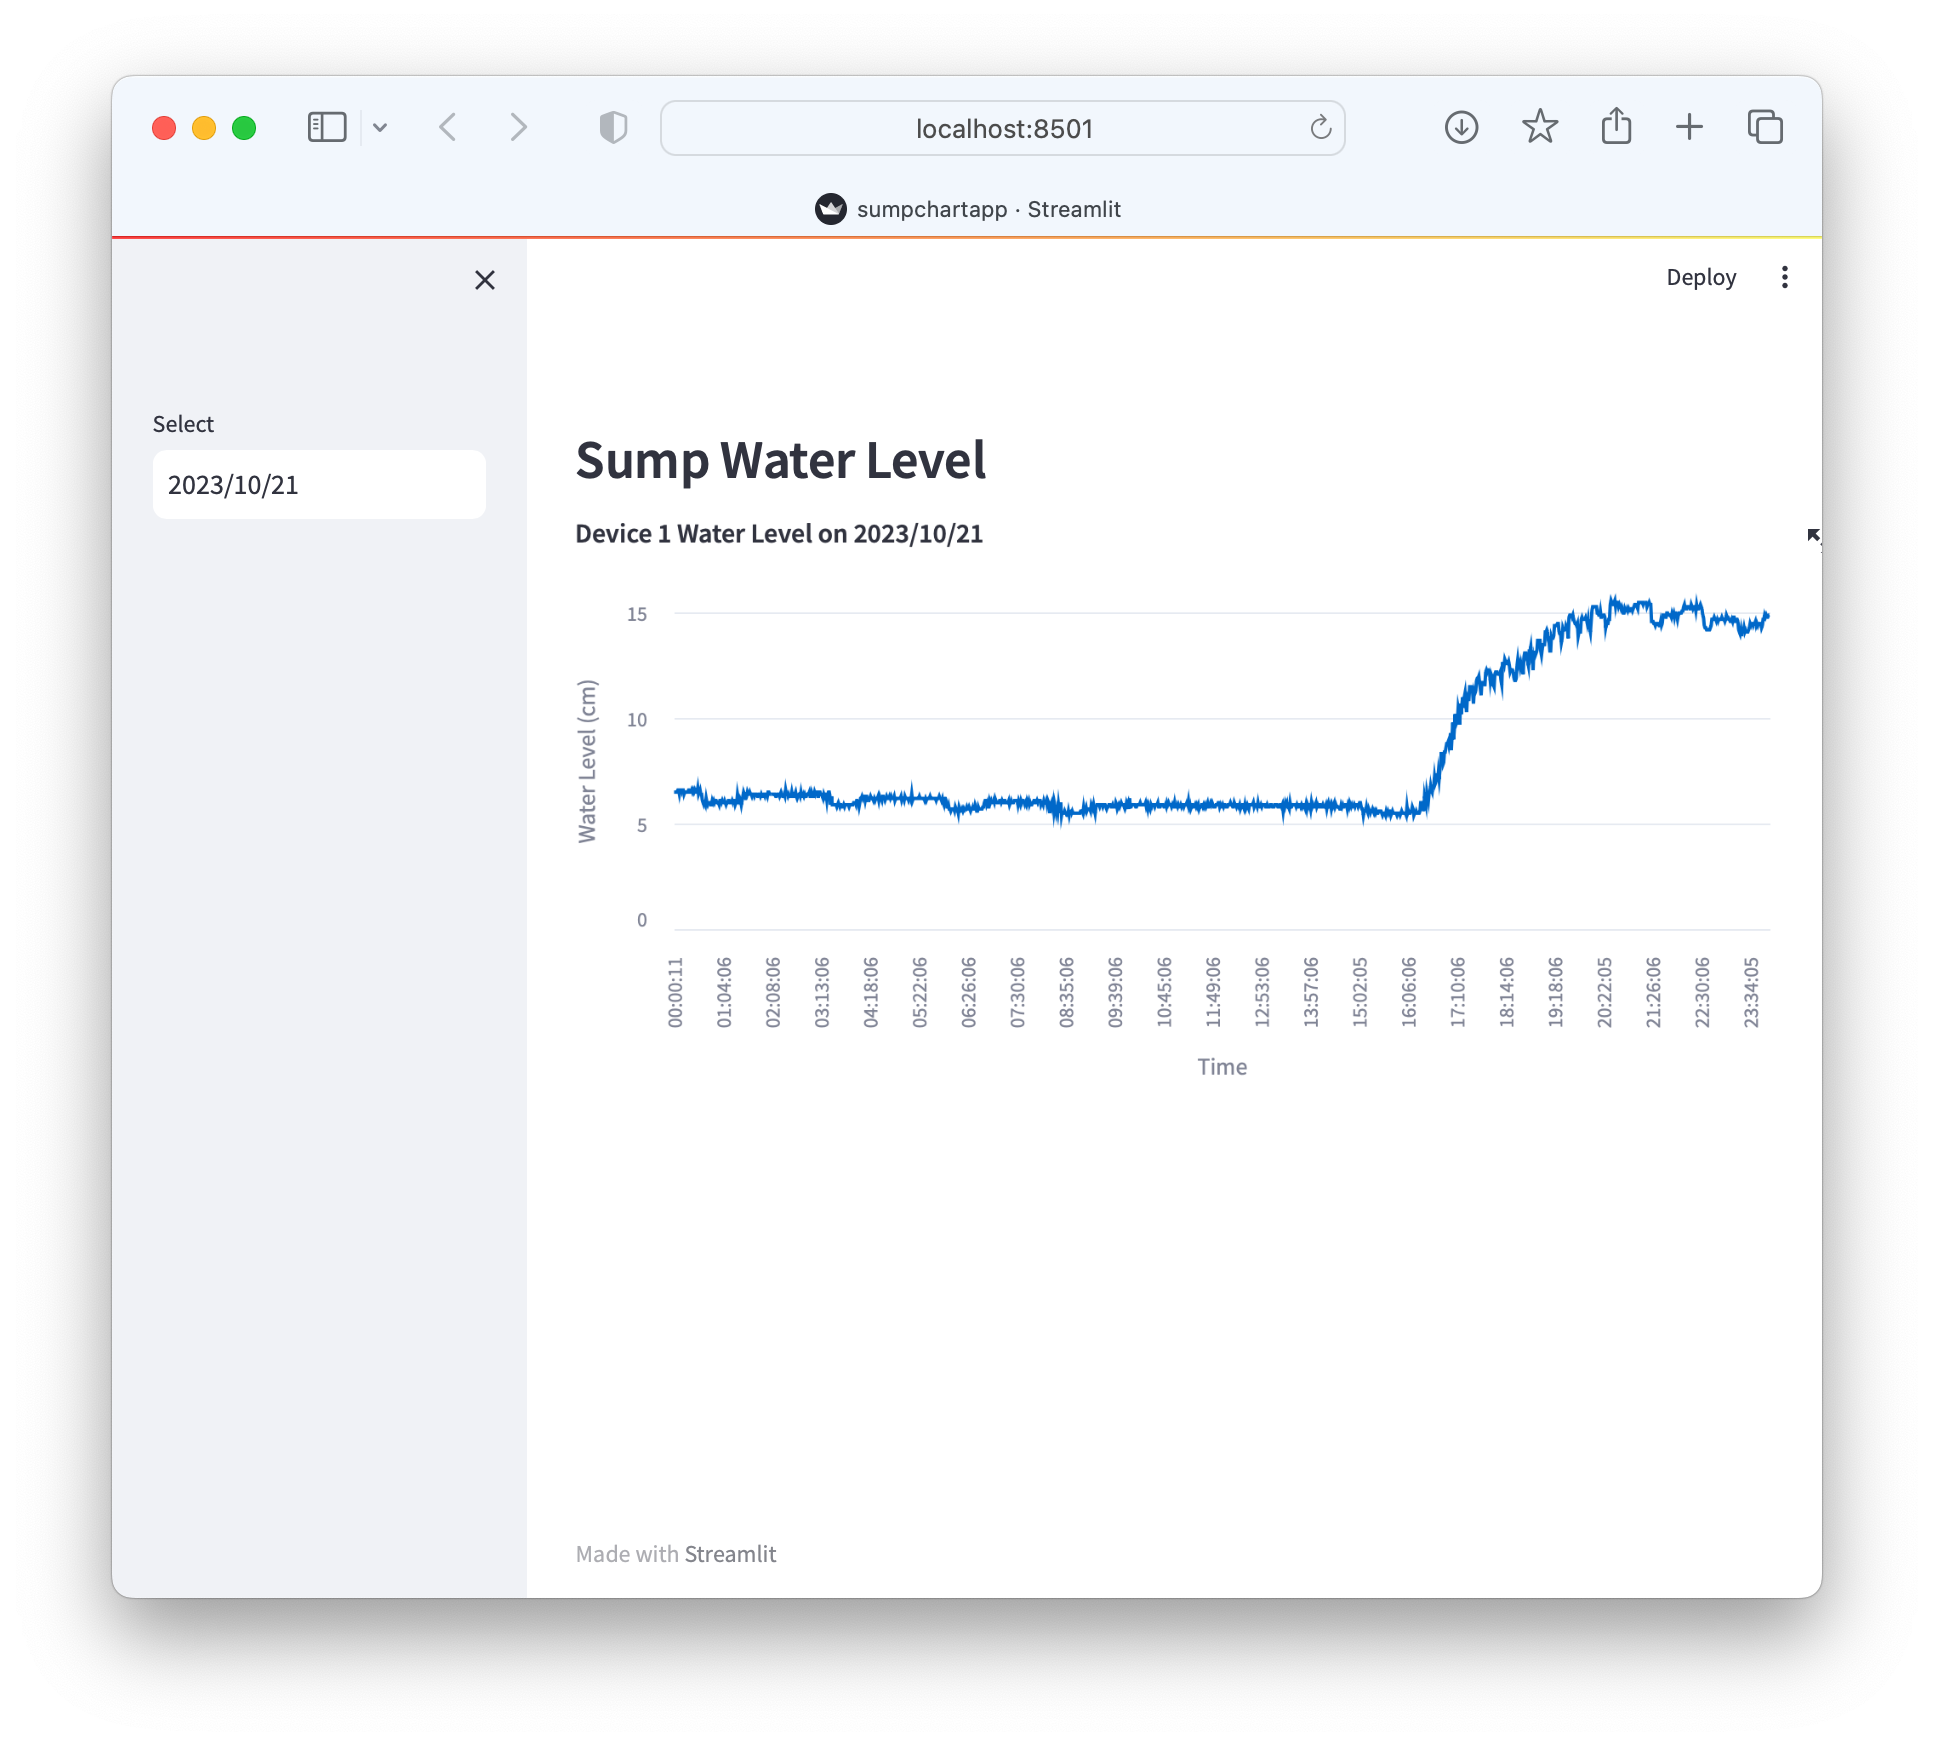
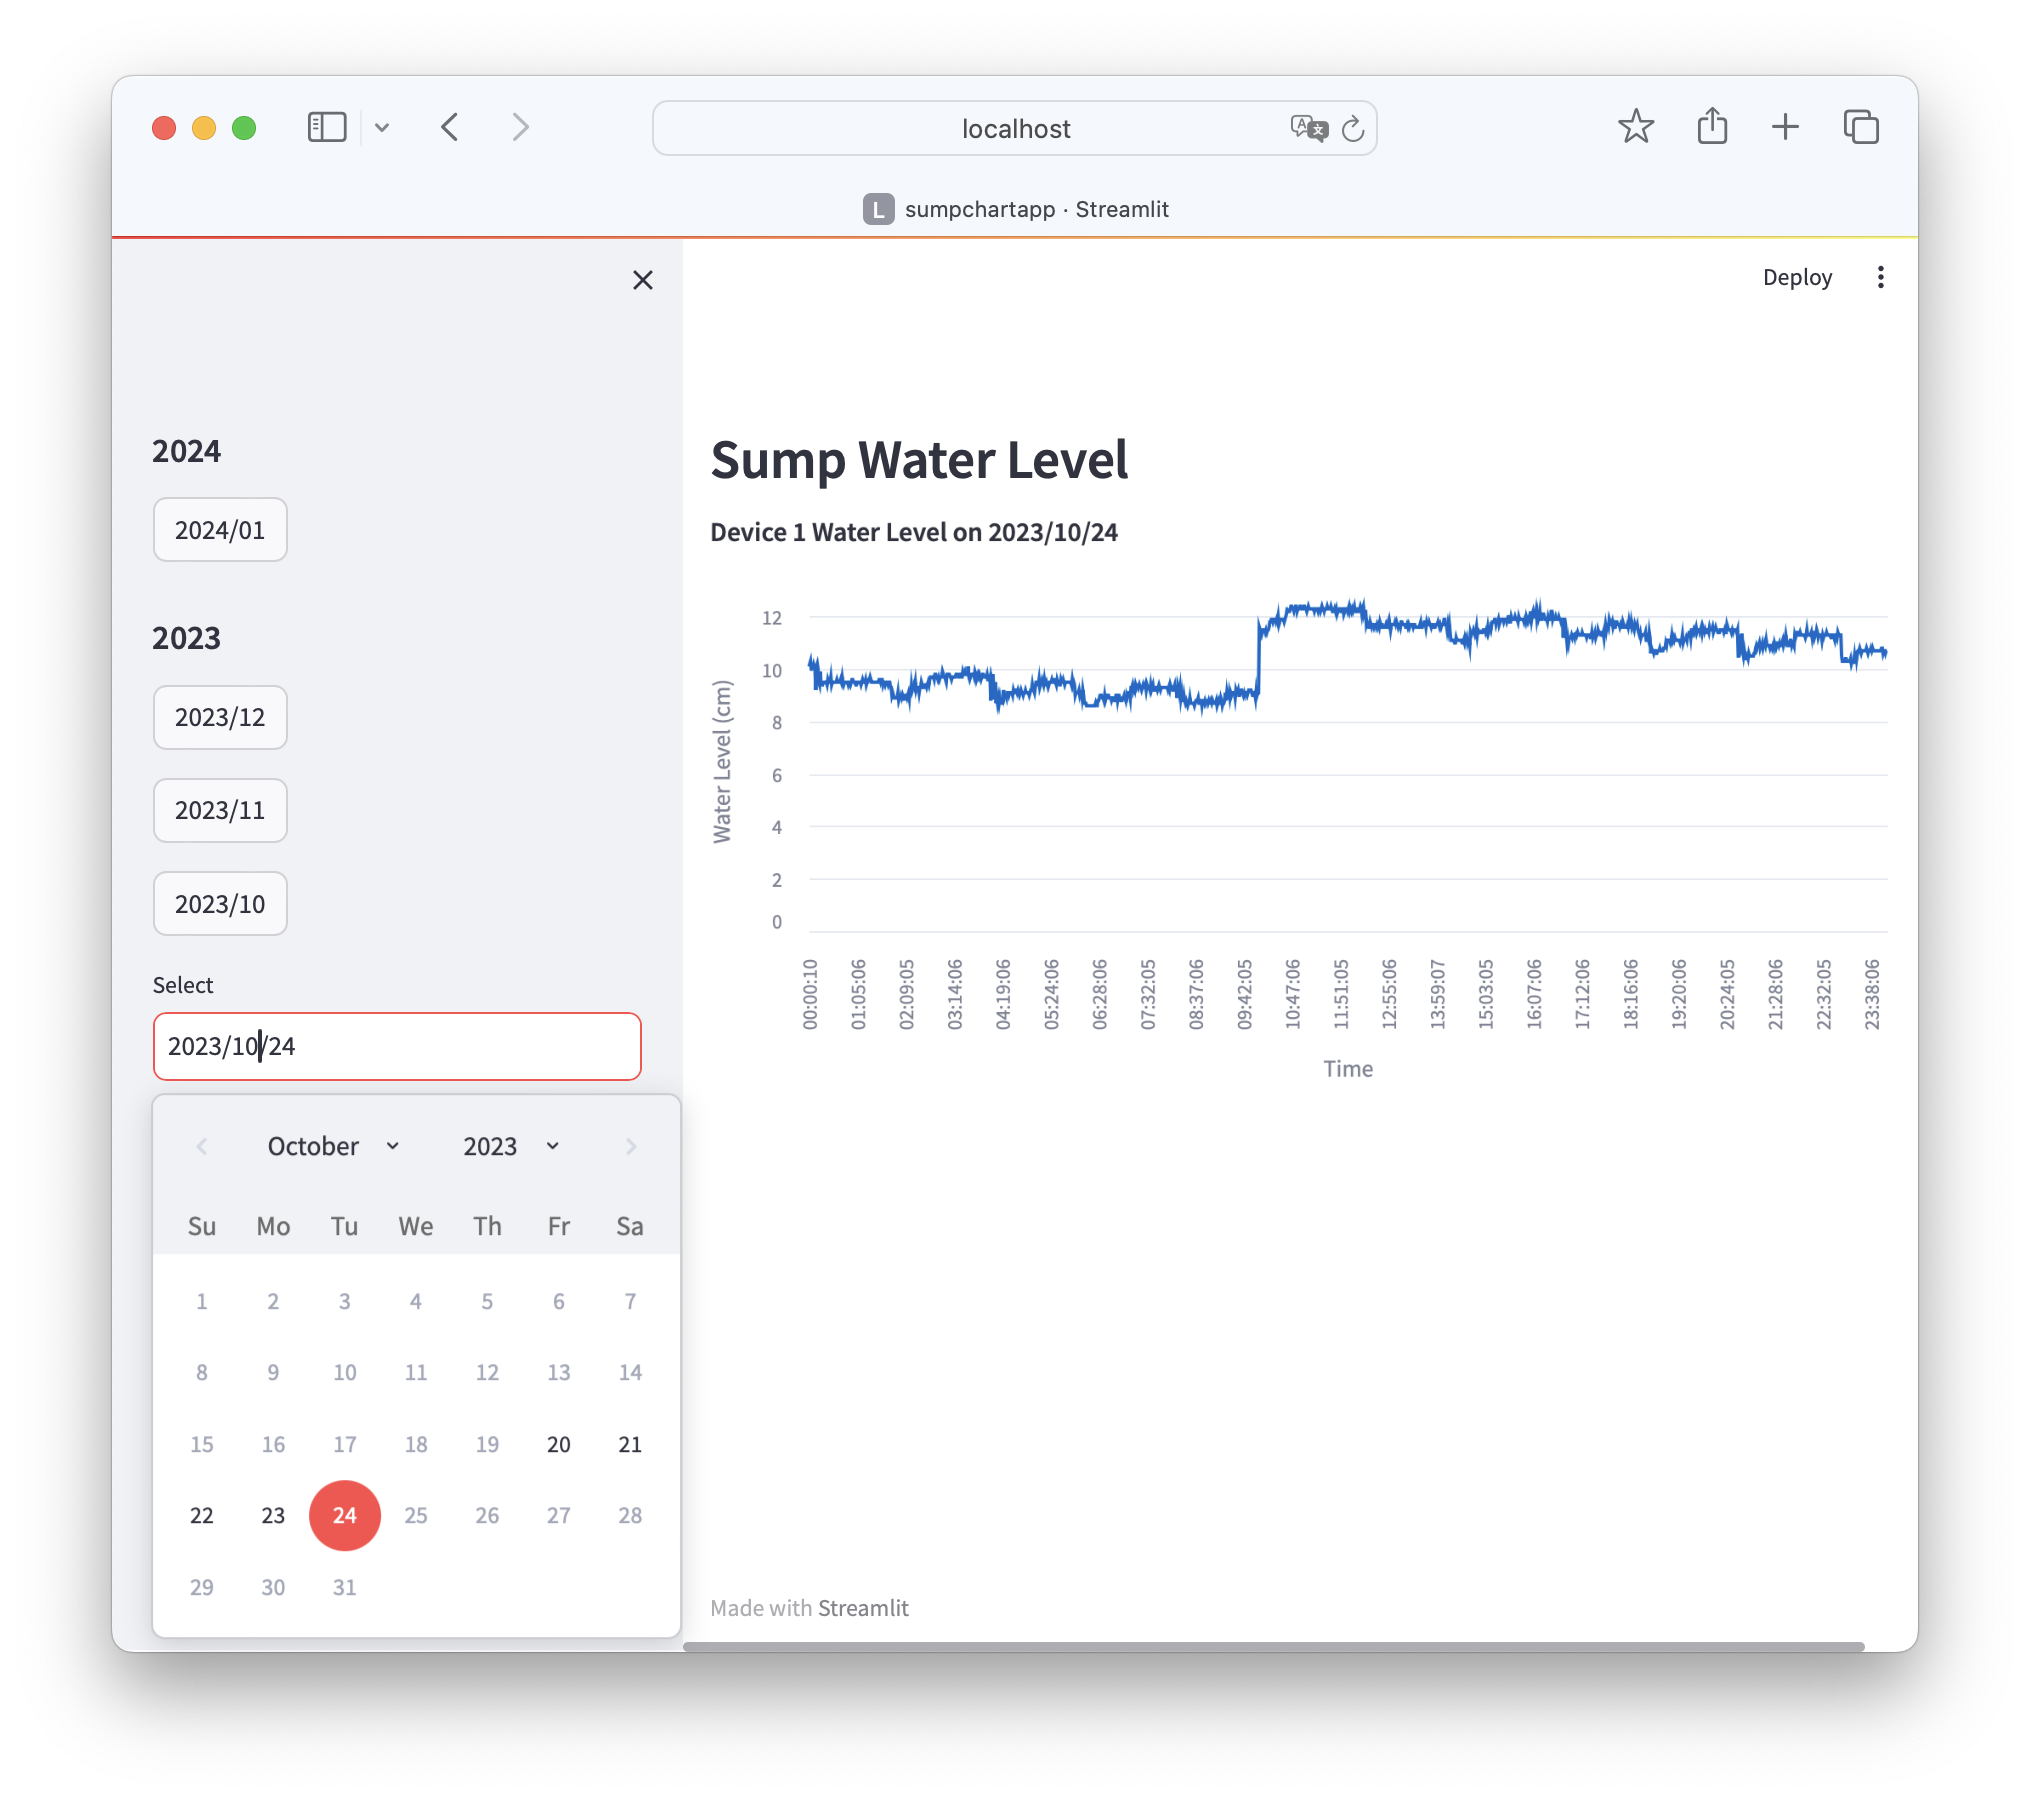
Update README - new screenshot, list of features

diff --git a/README.md b/README.md
@@ -1,7 +1,7 @@
 # sumpchart
 [![MIT Licensed](https://img.shields.io/badge/license-MIT-blue.svg)](https://github.com/ntamagawa/sumpdata/blob/main/LICENSE)
 
-Visualization of sump water level data managed by [Sump Water Level Application](https://github.com/ntamagawa/sumpdata) server.
+This is a visualization web app for sump water level data managed by [Sump Water Level Application](https://github.com/ntamagawa/sumpdata) server. It is intended to be light and simple, just to showcase what the sump data (server) application can do.
 
 ![Web Frontend Sample](assets/WebFrontendSample.png)
 
@@ -11,7 +11,7 @@ This web application is based on streamlit.
 - streamlit (tested 1.28)
 - pandas (tested 2.1)
 
-## Installation
+## Streamlit Installation
 ``` bash
 (venv) $ pip install streamlit
 ```
@@ -28,3 +28,7 @@ Detailed installation steps can be found in [Installing Streamlit on Mac](https:
 
 ```
 
+## Features
+- Visualize sump water level for a specified day
+- Calendar widget let users to choose the day
+- Handles the day when no data is available
